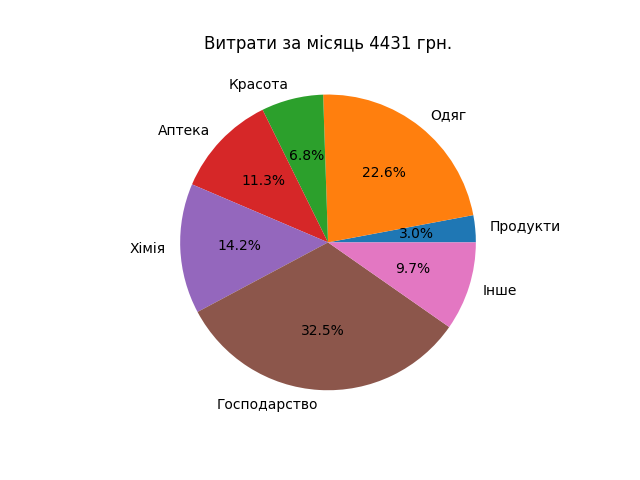
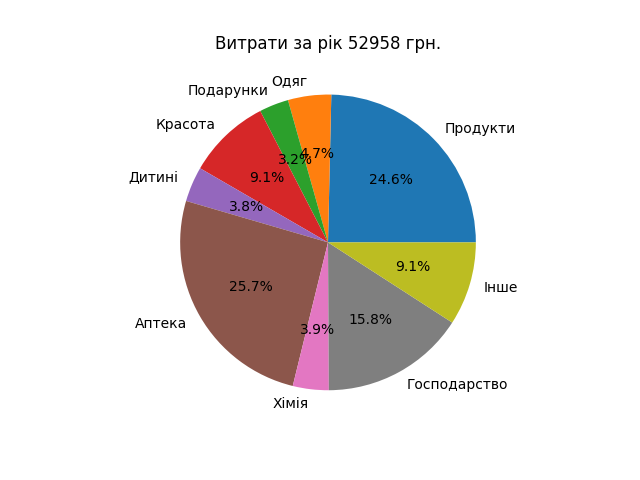
add html yearStat

diff --git a/bd/bdnew.py b/bd/bdnew.py
@@ -2,16 +2,17 @@ import matplotlib.pyplot as plt
 import datetime
 import os.path
 from peewee import *
+from jinja2 import Environment, FileSystemLoader
 
 BASE_DIR = os.path.dirname(os.path.abspath(__file__))
 db_path = os.path.join(BASE_DIR, "botBD.db")
 db = SqliteDatabase(db_path)
 
 
-def diagramBuilder(labels, sizes):
+def diagramBuilder(labels, sizes, monOrYear="місяць"):
     fig, ax = plt.subplots()
     ax.pie(sizes, labels=labels, autopct='%1.1f%%')
-    ax.set_title(f'Витрати за місяць {sum(sizes)} грн.')
+    ax.set_title(f'Витрати за {monOrYear} {sum(sizes)} грн.')
     plt.savefig("testplor.png")
 
 
@@ -62,3 +63,83 @@ class botBDnew():
         st+= f"\nСередні витрати - {str(round(sum(cost)/now.day))} грн. в день"
 
         return st
+
+    def statLastMounth():
+        now = datetime.datetime.now()
+
+        month = now.month
+        if month > 1:
+            now = now.replace(month=now.month - 1)
+        else:
+            now = now.replace(month=12, year=now.year - 1)
+        st = "Статистика:\n"
+        count = Credet.select().where((Credet.date.year == now.year) & (Credet.date.month == now.month)).count()
+        cost = []
+        labels = []
+        if count > 0:
+            for categ in ["Продукти", "Одяг", "Подарунки", "Красота", "Дитині", "Аптека", "Хімія", "Господарство",
+                          "Інше"]:
+                monthredet = 0
+                for i in Credet.select().where((Credet.date.year == now.year) & (
+                        Credet.date.month == now.month) & (Credet.category == categ)):
+                    monthredet += int(i.cash)
+
+                if monthredet > 0:
+                    cost.append(monthredet)
+                    labels.append(categ)
+                    st += f"{categ} - {monthredet} грн.\n"
+                    if categ == "Інше":
+                        st += "\nСклад іншого:\n"
+                        for i in Credet.select().where(
+                                (Credet.date.year == now.year) & (Credet.date.month == now.month) & (
+                                        Credet.category == categ)):
+                            st += f"{i.description} - {int(i.cash)}грн.\n"
+
+        diagramBuilder(labels, cost, monOrYear="минулий місяць")
+        st += f"\nСередні витрати - {str(round(sum(cost) / now.day))} грн. в день"
+
+        return st
+
+    def MyYear():
+        st = "Статистика:\n"
+        now = datetime.datetime.now()
+        cost = []
+        labels = []
+        for categ in ["Продукти", "Одяг", "Подарунки", "Красота", "Дитині", "Аптека", "Хімія", "Господарство",
+                      "Інше"]:
+            monthredet = 0
+            for i in Credet.select().where((Credet.date.year == now.year) & (Credet.category == categ)):
+                monthredet += int(i.cash)
+
+            if monthredet > 0:
+                cost.append(monthredet)
+                labels.append(categ)
+                st += f"{categ} - {monthredet} грн.\n"
+
+        diagramBuilder(labels, cost, monOrYear="рік")
+        day_count = Credet.select(fn.DATE_TRUNC('day', Credet.date)).where(
+            Credet.date.year == now.year
+        ).distinct().count()
+
+        st += f"\nСередні витрати - {str(round(sum(cost) / day_count))} грн. в день"
+        return st
+
+
+    def statHTML(self):
+        now = datetime.datetime.now()
+
+        count = Credet.select().where((Credet.date.year == now.year) & (Credet.date.month == now.month)).count()
+
+        if count > 0:
+            bdMonth = Credet.select().where((Credet.date.year == now.year) & (Credet.date.month == now.month))
+
+            env = Environment(loader=FileSystemLoader(BASE_DIR))
+
+            # Отримайте шаблон за його ім'ям
+            template = env.get_template('tamplate.html')
+
+            # Передайте дані з бази даних до шаблону та згенеруйте HTML-вихідний код
+            html_output = template.render(db=bdMonth, month=now.month, year=now.year)
+
+            with open('statistic.html', 'w', encoding='utf-8') as file:
+                file.write(html_output)

diff --git a/bot.py b/bot.py
@@ -116,19 +116,38 @@ async def month_statistic(message: types.Message):
 @dp.message_handler(filters.Text(equals="Минулий місяць"), state=None)
 async def month_statistic(message: types.Message):
     await bot.send_chat_action(chat_id=message.from_user.id, action="typing")
-    # te = botBDnew.statLastMounth()
-    # doc = open('testplor.png', 'rb')
-    await message.answer("Вибачте, цей функціонал в розробці!")
-    # await message.reply_photo(doc)
- 
+    te = botBDnew.statLastMounth()
+    doc = open('testplor.png', 'rb')
+    await message.answer(te)
+    await message.reply_photo(doc)
+
+@dp.message_handler(filters.Text(equals="Рік"), state=None)
+async def month_statistic(message: types.Message):
+    await bot.send_chat_action(chat_id=message.from_user.id, action="typing")
+    te = botBDnew.MyYear()
+    doc = open('testplor.png', 'rb')
+    await message.answer(te)
+    await message.reply_photo(doc)
+
+# @dp.message_handler(filters.Text(equals="Сторінка"), state=None)
+# async def site(message: types.Message):
+#     await bot.send_chat_action(chat_id=message.from_user.id, action="typing")
+#     botbdnew.statHTML()
+#     await message.answer("<a href='https://vmi957205.contaboserver.net/famstat/statistic.html'>Натисни тут</a>", reply_markup=markup, parse_mode="HTML")
+
+
 ##----------------------------Різне----------------------##
 @dp.message_handler()
 async def echo(message : types.Message):
     if message.text == "Файл12":
         doc = open('debug.txt', 'rb')
         await message.reply_document(doc)
-    elif message.text == "req":
-        pass
+    elif message.text == "html":
+        await bot.send_chat_action(chat_id=message.from_user.id, action="typing")
+        botbdnew.statHTML()
+        await message.answer("<a href='https://vmi957205.contaboserver.net/famstat/statistic.html'>Натисни тут</a>",
+                             reply_markup=markup, parse_mode="HTML")
+
     else:
         await message.answer("Не розумію!", reply_markup=markup)
     

diff --git a/keyboards/client_keyboard.py b/keyboards/client_keyboard.py
@@ -4,4 +4,4 @@ markup = ReplyKeyboardMarkup(resize_keyboard=True, row_width=4)
 # красота і дитині
 markup.add('Продукти', 'Одяг', 'Подарунки').add(
     'Красота', 'Дитині', 'Аптека').add('Хімія', 'Господарство', 'Інше').add(
-    'Статистика за місяць 📊').add('Минулий місяць')
+    'Статистика за місяць 📊','Минулий місяць','Рік')
